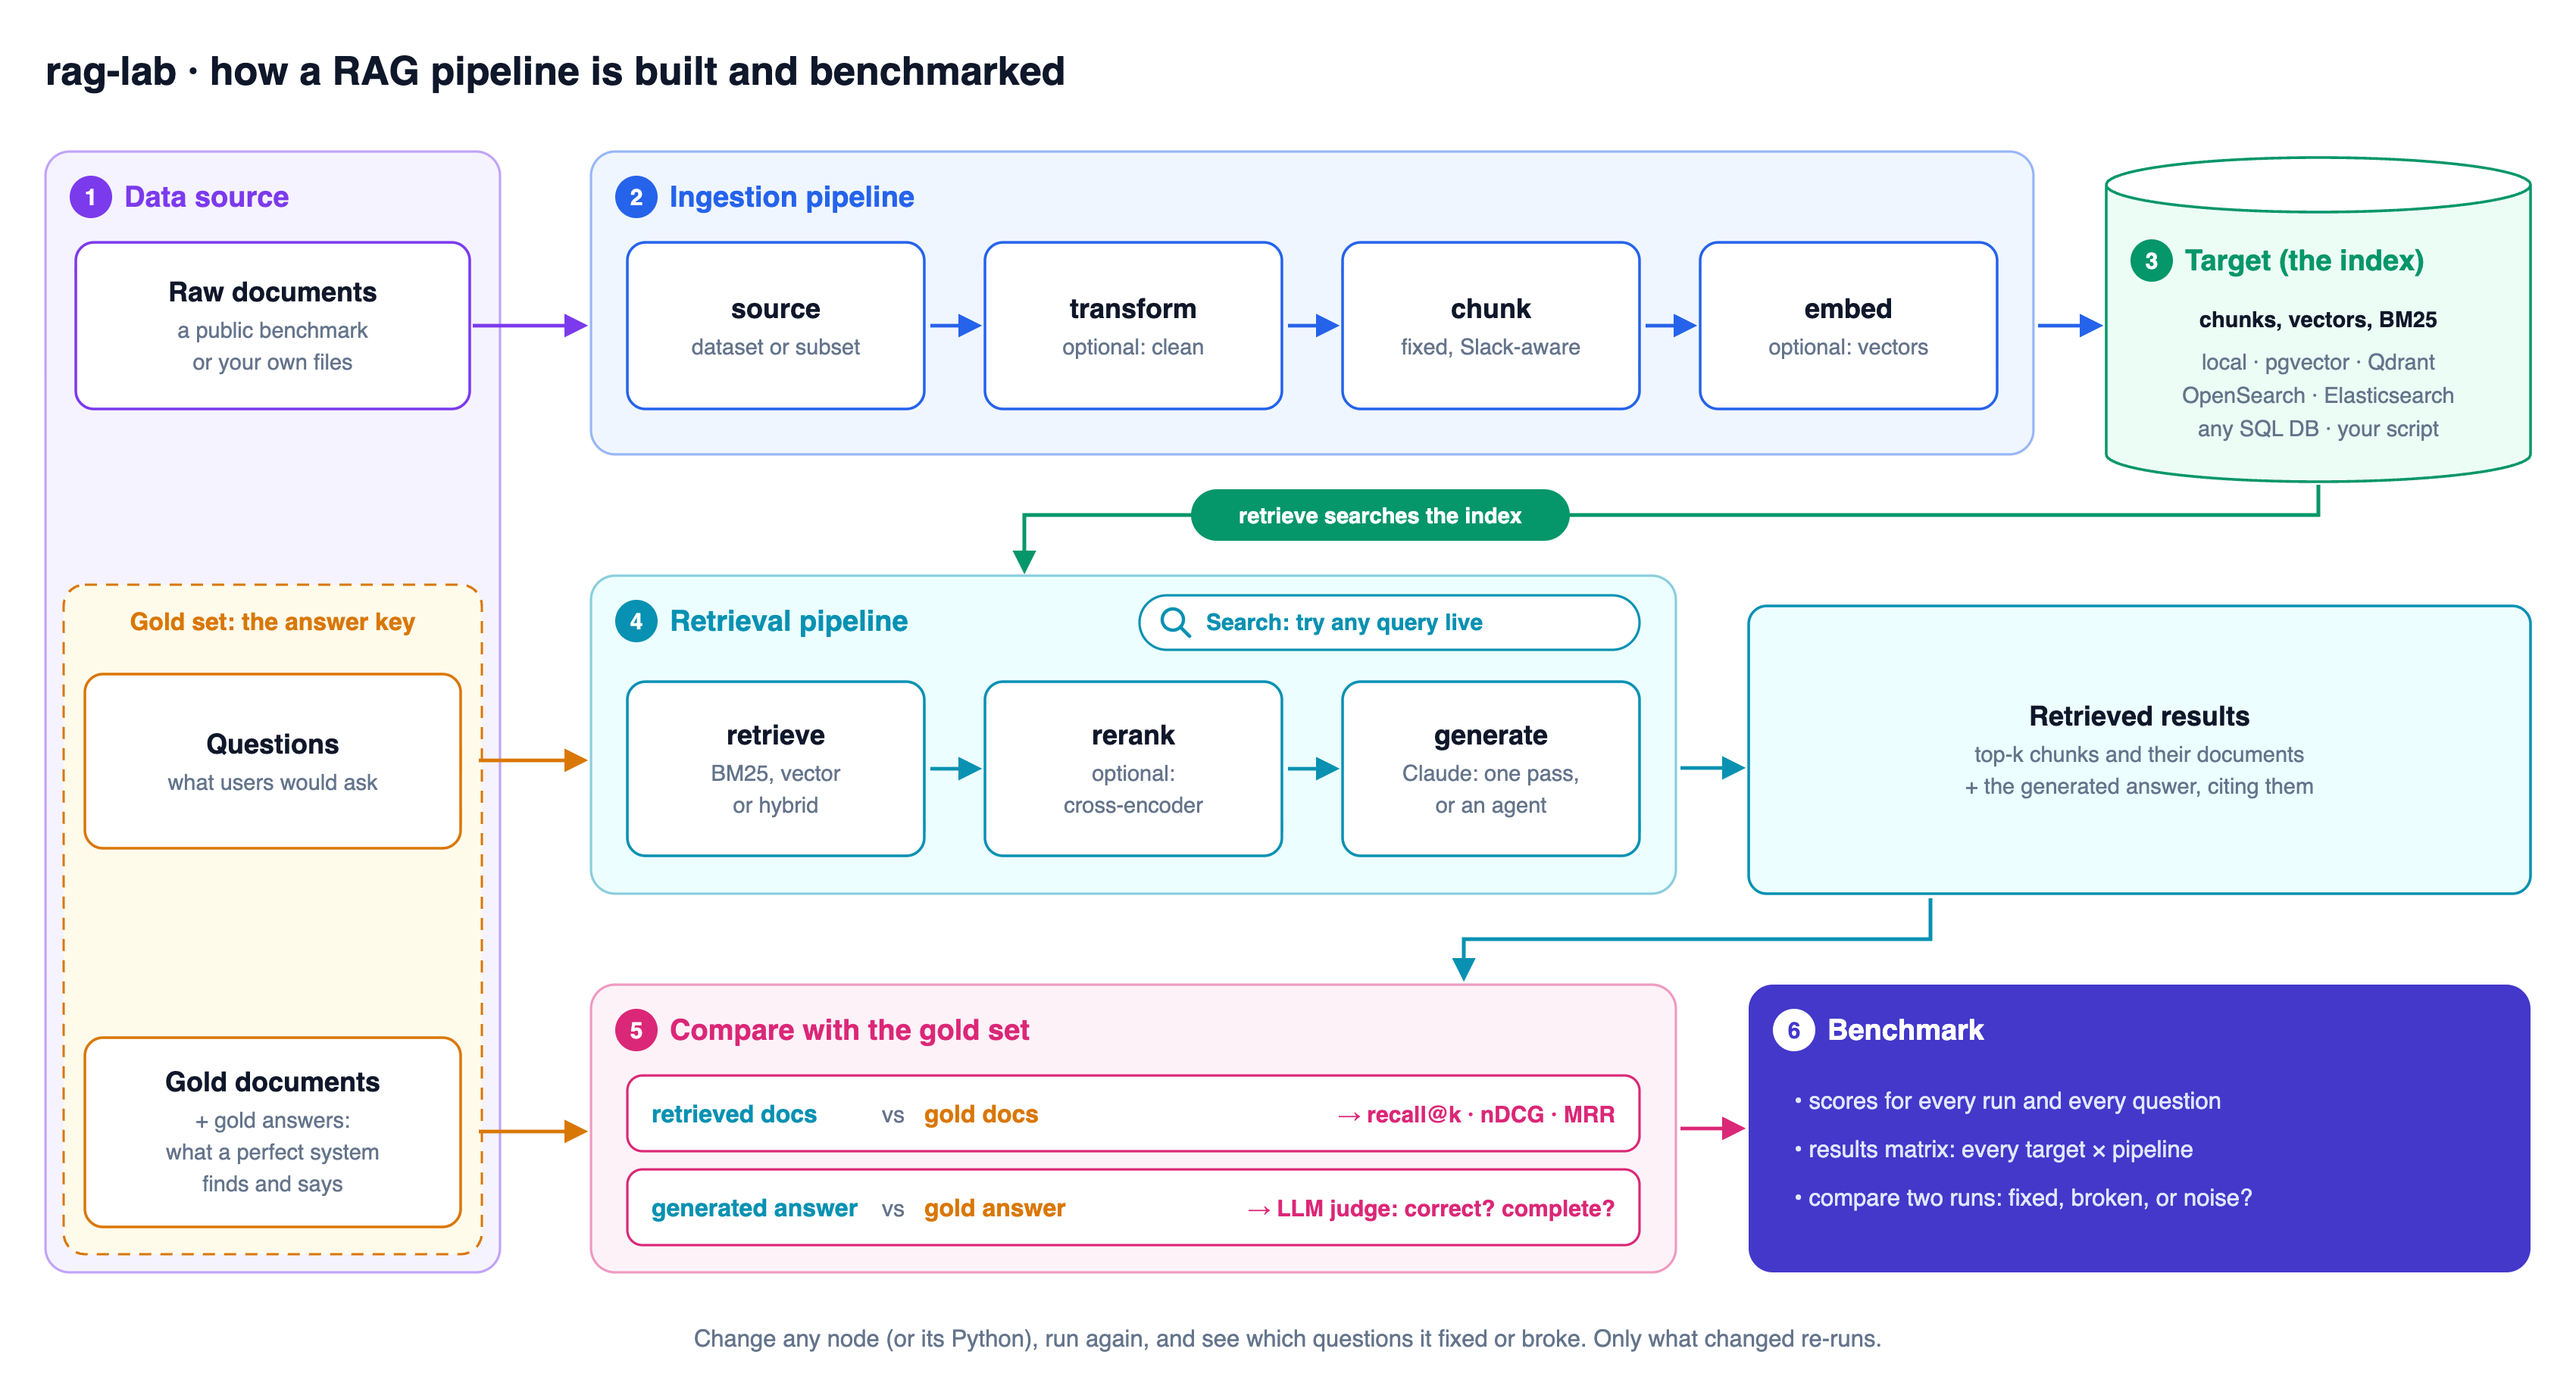
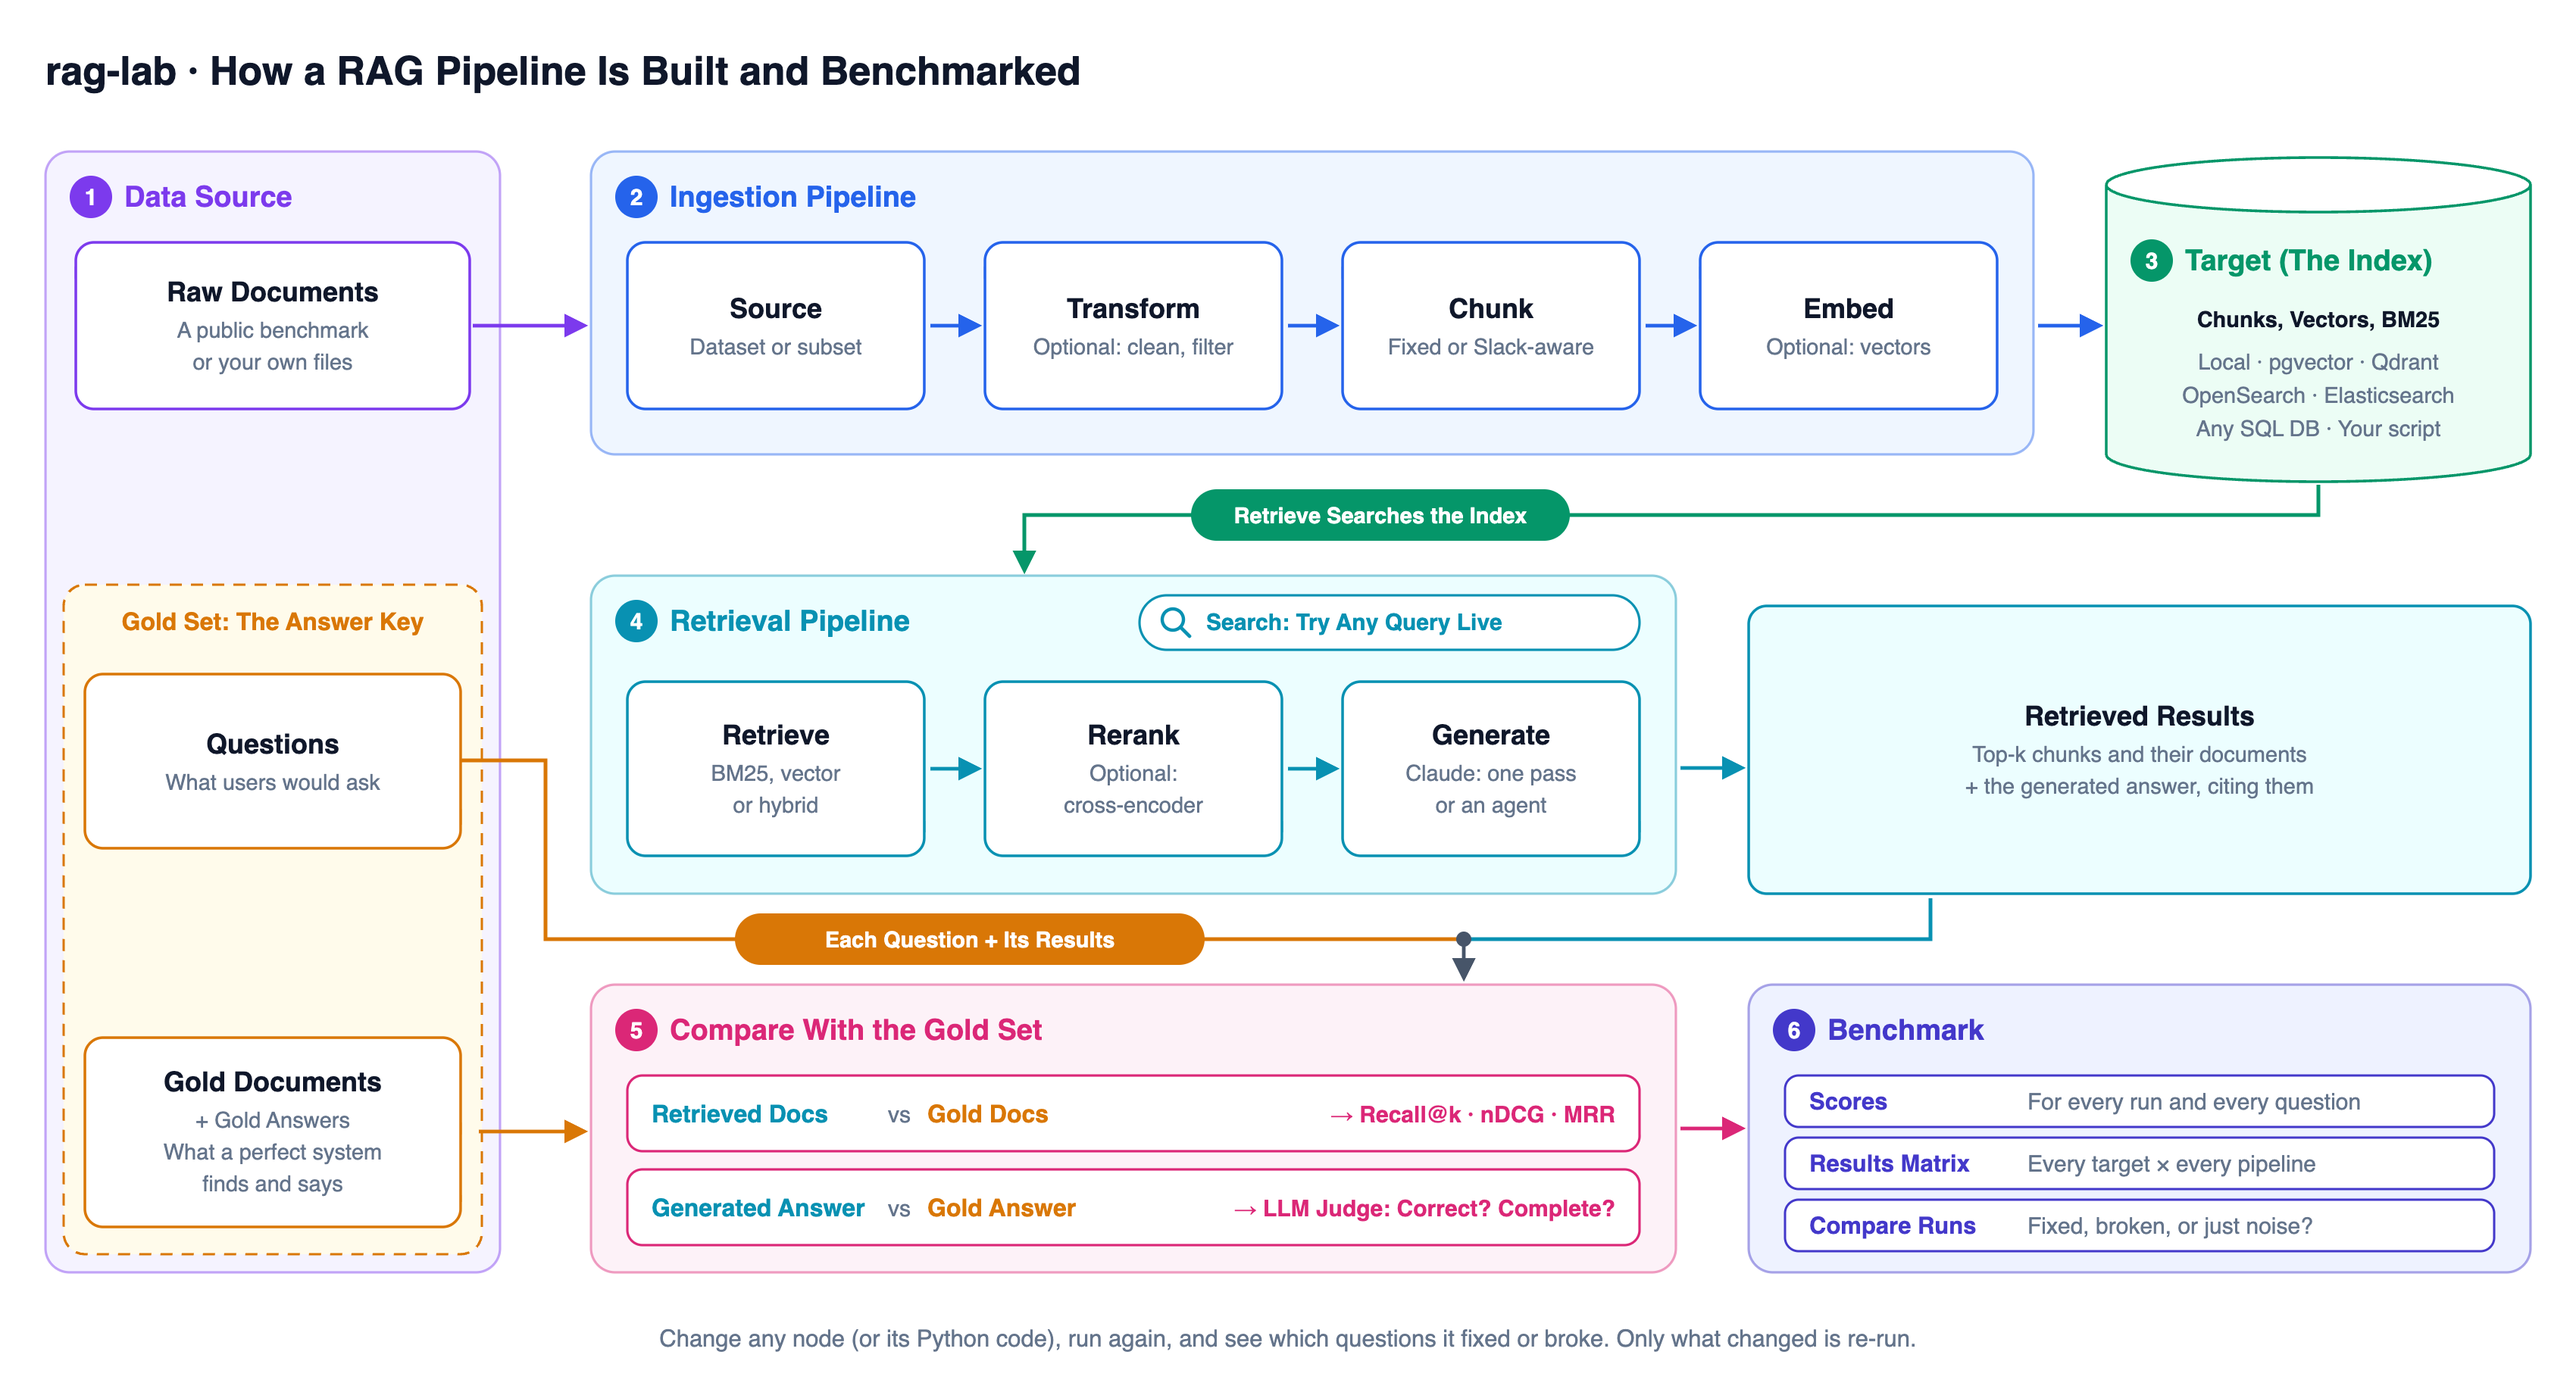
README diagram: questions join their results after retrieval, Benchmark styled like the other blocks, title case

diff --git a/docs/make_flow_diagram.py b/docs/make_flow_diagram.py
@@ -18,8 +18,8 @@ W, H = 1700, 915
 FONT = "-apple-system, 'Segoe UI', Helvetica, Arial, sans-serif"
 INK, MUTED, LINE = "#0f172a", "#64748b", "#475569"
 DATA, ING, TGT, RET, GOLD, CMP, BENCH = "#7c3aed", "#2563eb", "#059669", "#0891b2", "#d97706", "#db2777", "#4338ca"
-TINT = {DATA: "#f5f3ff", ING: "#eff6ff", TGT: "#ecfdf5", RET: "#ecfeff", GOLD: "#fffbeb", CMP: "#fdf2f8"}
-COLOURS = [DATA, ING, TGT, RET, GOLD, CMP, LINE]
+TINT = {BENCH: "#eef2ff", DATA: "#f5f3ff", ING: "#eff6ff", TGT: "#ecfdf5", RET: "#ecfeff", GOLD: "#fffbeb", CMP: "#fdf2f8"}
+COLOURS = [DATA, ING, TGT, RET, GOLD, CMP, LINE, BENCH]
 
 # rows: (top, bottom) of the ingestion, retrieval and evaluation bands
 R1, R2, R3 = (100, 300), (380, 590), (650, 840)
@@ -78,22 +78,22 @@ def svg():
     o = [f'<svg xmlns="http://www.w3.org/2000/svg" width="{W}" height="{H}" viewBox="0 0 {W} {H}" font-family="{FONT}">',
          f"<defs>{defs}</defs>",
          f'<rect width="{W}" height="{H}" rx="20" fill="#ffffff"/>',
-         text(30, 56, "rag-lab · how a RAG pipeline is built and benchmarked", 26, 750, INK, "start")]
+         text(30, 56, "rag-lab · How a RAG Pipeline Is Built and Benchmarked", 26, 750, INK, "start")]
 
     # 1 · data source: raw documents + the gold set
     lx, lw = LEFT[0], LEFT[1] - LEFT[0]
-    o += panel(lx, R1[0], lw, R3[1] - R1[0], DATA, 1, "Data source")
-    o += box(lx + 20, 160, lw - 40, 110, DATA, "Raw documents", ["a public benchmark", "or your own files"])
+    o += panel(lx, R1[0], lw, R3[1] - R1[0], DATA, 1, "Data Source")
+    o += box(lx + 20, 160, lw - 40, 110, DATA, "Raw Documents", ["A public benchmark", "or your own files"])
     o += [f'<rect x="{lx + 12}" y="{R2[0] + 6}" width="{lw - 24}" height="{R3[1] - R2[0] - 18}" rx="14" fill="{TINT[GOLD]}" stroke="{GOLD}" stroke-width="1.6" stroke-dasharray="8 6"/>',
-          text(lx + lw / 2, R2[0] + 36, "Gold set: the answer key", 16, 700, GOLD)]
-    o += box(lx + 26, 445, lw - 52, 115, GOLD, "Questions", ["what users would ask"])
-    o += box(lx + 26, 685, lw - 52, 125, GOLD, "Gold documents", ["+ gold answers:", "what a perfect system", "finds and says"])
+          text(lx + lw / 2, R2[0] + 36, "Gold Set: The Answer Key", 16, 700, GOLD)]
+    o += box(lx + 26, 445, lw - 52, 115, GOLD, "Questions", ["What users would ask"])
+    o += box(lx + 26, 685, lw - 52, 125, GOLD, "Gold Documents", ["+ Gold Answers", "What a perfect system", "finds and says"])
 
     # 2 · ingestion pipeline → 3 · target
     ing_w = 4 * NODE_W + 3 * NODE_GAP + 2 * PAD
-    o += panel(MAIN, R1[0], ing_w, R1[1] - R1[0], ING, 2, "Ingestion pipeline")
-    o += chain(160, 110, ING, [("source", "dataset or subset"), ("transform", "optional: clean"),
-                               ("chunk", "fixed, Slack-aware"), ("embed", "optional: vectors")])
+    o += panel(MAIN, R1[0], ing_w, R1[1] - R1[0], ING, 2, "Ingestion Pipeline")
+    o += chain(160, 110, ING, [("Source", "Dataset or subset"), ("Transform", "Optional: clean, filter"),
+                               ("Chunk", "Fixed or Slack-aware"), ("Embed", "Optional: vectors")])
     o += arrow([(LEFT[1] - 18, 215), (MAIN - 5, 215)], DATA)
     tx, tw = MAIN + ing_w + 48, RIGHT - (MAIN + ing_w + 48)
     o += arrow([(MAIN + ing_w + 3, 215), (tx - 5, 215)], ING)
@@ -101,57 +101,63 @@ def svg():
     o += [f'<path d="M{tx},{top} v{bot - top} a{tw / 2},18 0 0 0 {tw},0 v-{bot - top}" fill="{TINT[TGT]}" stroke="{TGT}" stroke-width="1.8"/>',
           f'<ellipse cx="{tx + tw / 2}" cy="{top}" rx="{tw / 2}" ry="18" fill="#fff" stroke="{TGT}" stroke-width="1.8"/>',
           f'<circle cx="{tx + 30}" cy="{top + 50}" r="14" fill="{TGT}"/>', text(tx + 30, top + 55.5, "3", 15, 700, "#fff"),
-          text(tx + 52, top + 56.5, "Target (the index)", 19, 700, TGT, "start"),
-          text(tx + tw / 2, top + 94, "chunks, vectors, BM25", 14.5, 600, INK),
-          text(tx + tw / 2, top + 122, "local · pgvector · Qdrant", 14.5, 400, MUTED),
+          text(tx + 52, top + 56.5, "Target (The Index)", 19, 700, TGT, "start"),
+          text(tx + tw / 2, top + 94, "Chunks, Vectors, BM25", 14.5, 600, INK),
+          text(tx + tw / 2, top + 122, "Local · pgvector · Qdrant", 14.5, 400, MUTED),
           text(tx + tw / 2, top + 144, "OpenSearch · Elasticsearch", 14.5, 400, MUTED),
-          text(tx + tw / 2, top + 166, "any SQL DB · your script", 14.5, 400, MUTED)]
+          text(tx + tw / 2, top + 166, "Any SQL DB · Your script", 14.5, 400, MUTED)]
 
-    # 4 · retrieval pipeline, fed by the questions (or any query typed in the search box)
+    # 4 · retrieval pipeline (try it with any query in the search box)
     ret_w = 3 * NODE_W + 2 * NODE_GAP + 2 * PAD
-    o += panel(MAIN, R2[0], ret_w, R2[1] - R2[0], RET, 4, "Retrieval pipeline")
+    o += panel(MAIN, R2[0], ret_w, R2[1] - R2[0], RET, 4, "Retrieval Pipeline")
     sx, sw = MAIN + ret_w - PAD - 330, 330          # the search box
     o += [f'<rect x="{sx}" y="{R2[0] + 13}" width="{sw}" height="36" rx="18" fill="#fff" stroke="{RET}" stroke-width="1.6"/>',
           f'<circle cx="{sx + 22}" cy="{R2[0] + 29}" r="7" fill="none" stroke="{RET}" stroke-width="2.2"/>',
           f'<line x1="{sx + 27}" y1="{R2[0] + 34}" x2="{sx + 33}" y2="{R2[0] + 40}" stroke="{RET}" stroke-width="2.4" stroke-linecap="round"/>',
-          text(sx + 44, R2[0] + 36, "Search: try any query live", 15, 600, RET, "start")]
-    o += chain(450, 115, RET, [("retrieve", ["BM25, vector", "or hybrid"]), ("rerank", ["optional:", "cross-encoder"]),
-                               ("generate", ["Claude: one pass,", "or an agent"])])
-    o += arrow([(LEFT[1] - 14, 502), (MAIN - 5, 502)], GOLD)
+          text(sx + 44, R2[0] + 36, "Search: Try Any Query Live", 15, 600, RET, "start")]
+    o += chain(450, 115, RET, [("Retrieve", ["BM25, vector", "or hybrid"]), ("Rerank", ["Optional:", "cross-encoder"]),
+                               ("Generate", ["Claude: one pass", "or an agent"])])
     rx0 = sx - 76                                   # between the panel title and the search box
     o += arrow([(tx + tw / 2, R1[1] + 20), (tx + tw / 2, 340), (rx0, 340), (rx0, R2[0] - 4)], TGT)
-    o += pill((MAIN + ing_w) / 2 + 240, 340, 250, "retrieve searches the index", TGT)
+    o += pill((MAIN + ing_w) / 2 + 240, 340, 250, "Retrieve Searches the Index", TGT)
 
     # retrieved results
     qx = MAIN + ret_w + 48
     o += arrow([(MAIN + ret_w + 3, 507), (qx - 5, 507)], RET)
-    o += box(qx, R2[0] + 20, RIGHT - qx, R2[1] - R2[0] - 20, RET, "Retrieved results",
-             ["top-k chunks and their documents", "+ the generated answer, citing them"], fill=TINT[RET])
+    o += box(qx, R2[0] + 20, RIGHT - qx, R2[1] - R2[0] - 20, RET, "Retrieved Results",
+             ["Top-k chunks and their documents", "+ the generated answer, citing them"], fill=TINT[RET])
+
+    # each question joins its retrieved results at the end of block 4, on the way to the comparison
+    jx, jy = MAIN + ret_w - 140, 620
+    o += [f'<path d="M{LEFT[1] - 26},502 H360 V{jy} H{jx}" fill="none" stroke="{GOLD}" stroke-width="2.4"/>',
+          f'<path d="M{qx + 120},{R2[1] + 3} V{jy} H{jx}" fill="none" stroke="{RET}" stroke-width="2.4"/>',
+          f'<circle cx="{jx}" cy="{jy}" r="5" fill="{LINE}"/>']
+    o += arrow([(jx, jy), (jx, R3[0] - 5)], LINE)
+    o += pill(640, jy, 310, "Each Question + Its Results", GOLD)
 
     # 5 · compare with the gold set → 6 · benchmark
-    o += panel(MAIN, R3[0], ret_w, R3[1] - R3[0], CMP, 5, "Compare with the gold set")
-    for k, (a, b, m) in enumerate([("retrieved docs", "gold docs", "recall@k · nDCG · MRR"),
-                                   ("generated answer", "gold answer", "LLM judge: correct? complete?")]):
+    o += panel(MAIN, R3[0], ret_w, R3[1] - R3[0], CMP, 5, "Compare With the Gold Set")
+    for k, (a, b, m) in enumerate([("Retrieved Docs", "Gold Docs", "Recall@k · nDCG · MRR"),
+                                   ("Generated Answer", "Gold Answer", "LLM Judge: Correct? Complete?")]):
         y = R3[0] + 60 + k * 62
         o += [f'<rect x="{MAIN + PAD}" y="{y}" width="{ret_w - 2 * PAD}" height="50" rx="10" fill="#fff" stroke="{CMP}" stroke-width="1.6"/>',
               text(MAIN + PAD + 16, y + 31, a, 16, 700, RET, "start"),
-              text(MAIN + PAD + 168, y + 31, "vs", 15, 400, MUTED, "start"),
-              text(MAIN + PAD + 196, y + 31, b, 16, 700, GOLD, "start"),
+              text(MAIN + PAD + 172, y + 31, "vs", 15, 400, MUTED, "start"),
+              text(MAIN + PAD + 198, y + 31, b, 16, 700, GOLD, "start"),
               text(MAIN + ret_w - PAD - 16, y + 31, "→  " + m, 15, 600, CMP, "end")]
     o += arrow([(LEFT[1] - 14, 747), (MAIN - 5, 747)], GOLD)
-    o += arrow([(qx + 120, R2[1] + 3), (qx + 120, 620), (MAIN + ret_w - 140, 620), (MAIN + ret_w - 140, R3[0] - 5)], RET)
     o += arrow([(MAIN + ret_w + 3, 745), (qx - 5, 745)], CMP)
-    bw = RIGHT - qx
-    o += [f'<rect x="{qx}" y="{R3[0]}" width="{bw}" height="{R3[1] - R3[0]}" rx="16" fill="{BENCH}"/>',
-          f'<circle cx="{qx + 30}" cy="{R3[0] + 30}" r="14" fill="#fff"/>', text(qx + 30, R3[0] + 35.5, "6", 15, 700, BENCH),
-          text(qx + 52, R3[0] + 36.5, "Benchmark", 19, 700, "#fff", "start")]
-    for k, s in enumerate(["scores for every run and every question",
-                           "results matrix: every target × pipeline",
-                           "compare two runs: fixed, broken, or noise?"]):
-        o.append(text(qx + 30, R3[0] + 82 + k * 32, "•  " + s, 15.5, 500, "#e0e7ff", "start"))
+    o += panel(qx, R3[0], RIGHT - qx, R3[1] - R3[0], BENCH, 6, "Benchmark")
+    for k, (a, b) in enumerate([("Scores", "for every run and every question"),
+                                ("Results Matrix", "every target × every pipeline"),
+                                ("Compare Runs", "fixed, broken, or just noise?")]):
+        y = R3[0] + 60 + k * 41
+        o += [f'<rect x="{qx + PAD}" y="{y}" width="{RIGHT - qx - 2 * PAD}" height="34" rx="9" fill="#fff" stroke="{BENCH}" stroke-width="1.5"/>',
+              text(qx + PAD + 16, y + 22.5, a, 15.5, 700, BENCH, "start"),
+              text(qx + PAD + 160, y + 22.5, b[0].upper() + b[1:], 15, 400, MUTED, "start")]
 
-    o.append(text(W / 2, H - 26, "Change any node (or its Python), run again, and see which questions it fixed or broke. "
-                                 "Only what changed re-runs.", 15.5, 400, MUTED))
+    o.append(text(W / 2, H - 26, "Change any node (or its Python code), run again, and see which questions it fixed or broke. "
+                                 "Only what changed is re-run.", 15.5, 400, MUTED))
     o.append("</svg>")
     return "\n".join(o)
 

diff --git a/README.md b/README.md
@@ -27,17 +27,18 @@ you edit in the browser, so you can read, change and own every line.
 
 ## How it works
 
-![How rag-lab works: a data source with raw documents and a gold set; raw documents go through the ingestion pipeline into a target; the retrieval pipeline answers the questions from the target; retrieved results are compared with the gold documents and gold answers to produce the benchmark](docs/rag-lab-flow.png)
+![How rag-lab works: a data source with raw documents and a gold set; raw documents go through the ingestion pipeline into a target; the retrieval pipeline searches the target; each question with its retrieved results is compared with the gold documents and gold answers to produce the benchmark](docs/rag-lab-flow.png)
 
 1. **Data source.** Every dataset has two parts: the raw documents, and a gold set of questions with
    their gold documents and, where available, gold answers.
 2. **Ingestion pipeline.** The raw documents are transformed, chunked and optionally embedded...
 3. **...into a target**, the index that retrieval searches: local, pgvector, Qdrant, OpenSearch,
    Elasticsearch, any SQL database or your own script.
-4. **Retrieval pipeline.** Each question is retrieved (BM25, vector or hybrid), optionally reranked,
-   and answered by Claude in one pass or as an agent. The search box lets you try any query live.
-5. **Compare with the gold set.** Retrieved documents are scored against the gold documents (recall@k,
-   nDCG, MRR) and generated answers against the gold answers (LLM judge).
+4. **Retrieval pipeline.** Retrieves from the target (BM25, vector or hybrid), optionally reranks, and
+   answers with Claude in one pass or as an agent. The search box lets you try any query live.
+5. **Compare with the gold set.** Each question is joined with its retrieved results. Retrieved
+   documents are scored against the gold documents (recall@k, nDCG, MRR) and generated answers against
+   the gold answers (LLM judge).
 6. **Benchmark.** Scores per run and per question, a results matrix across targets and pipelines, and
    run-to-run comparisons that say whether a change really helped.
 
